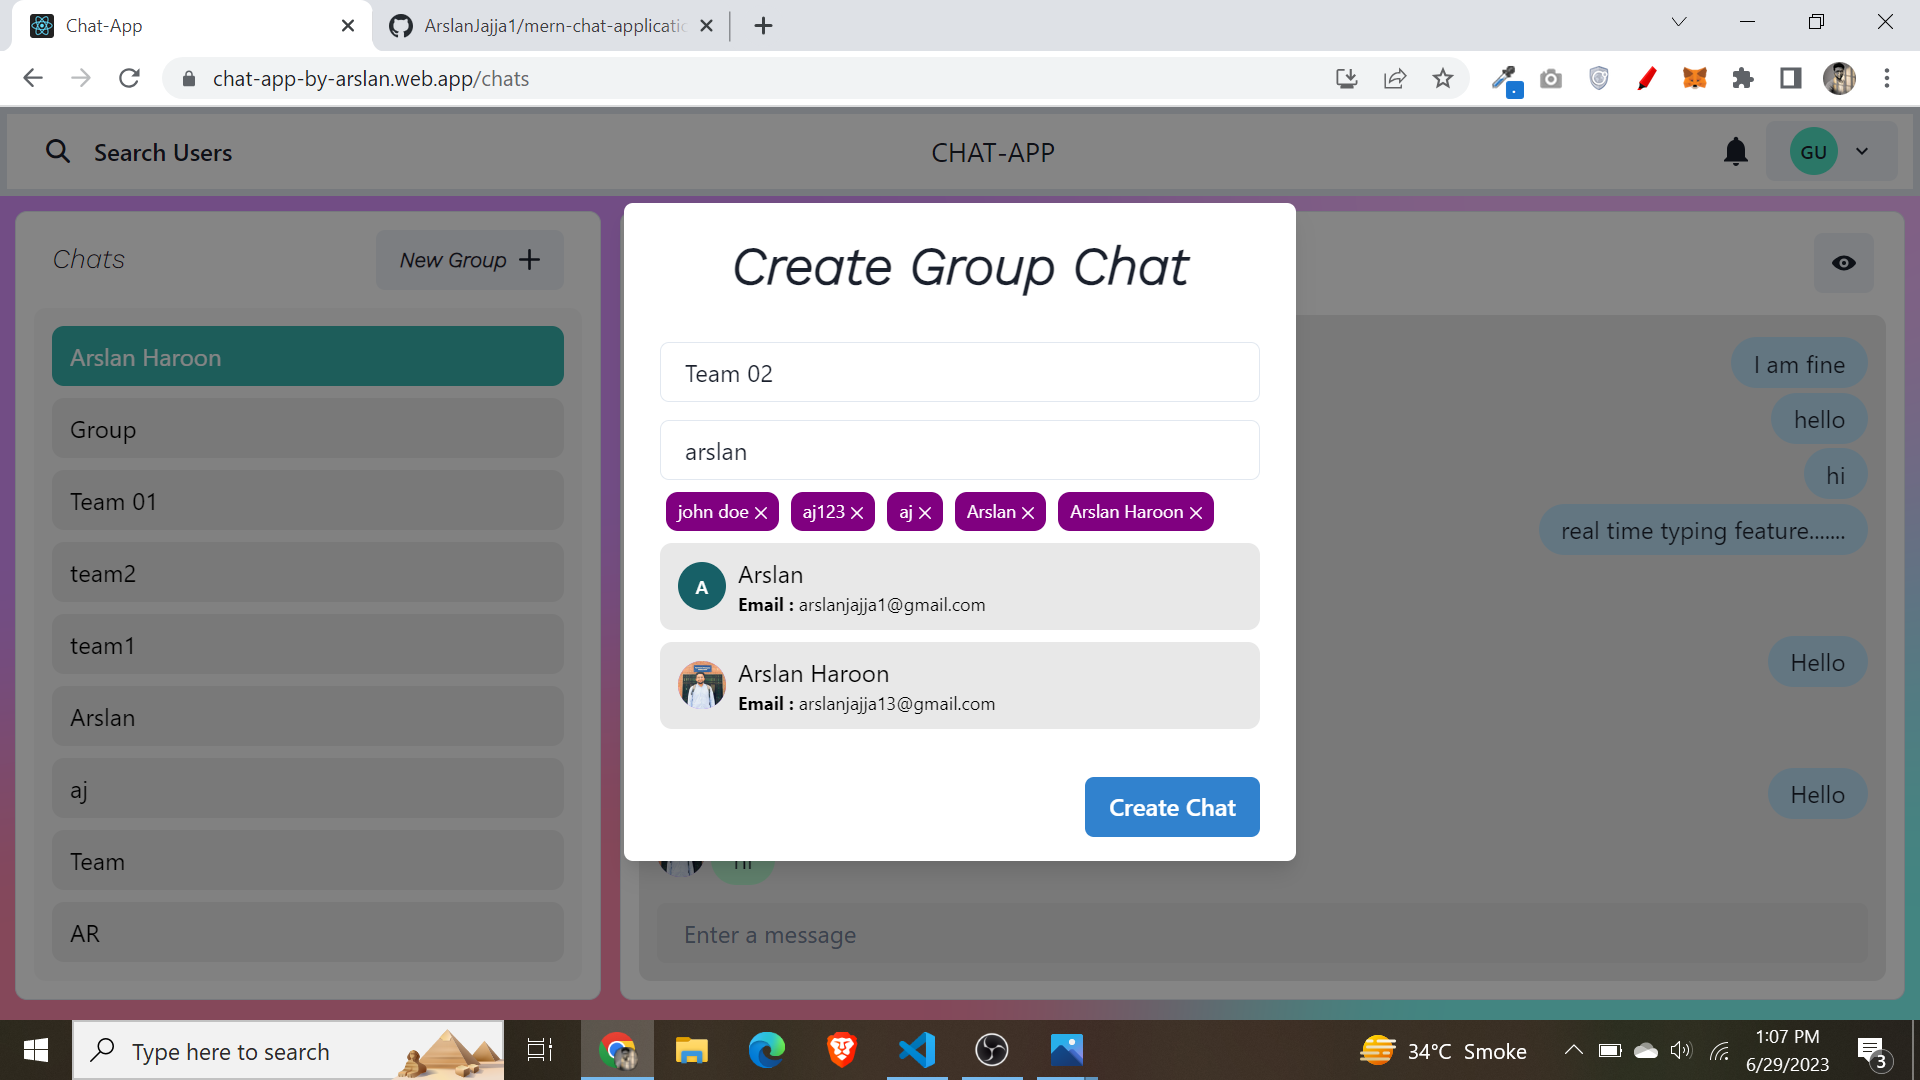
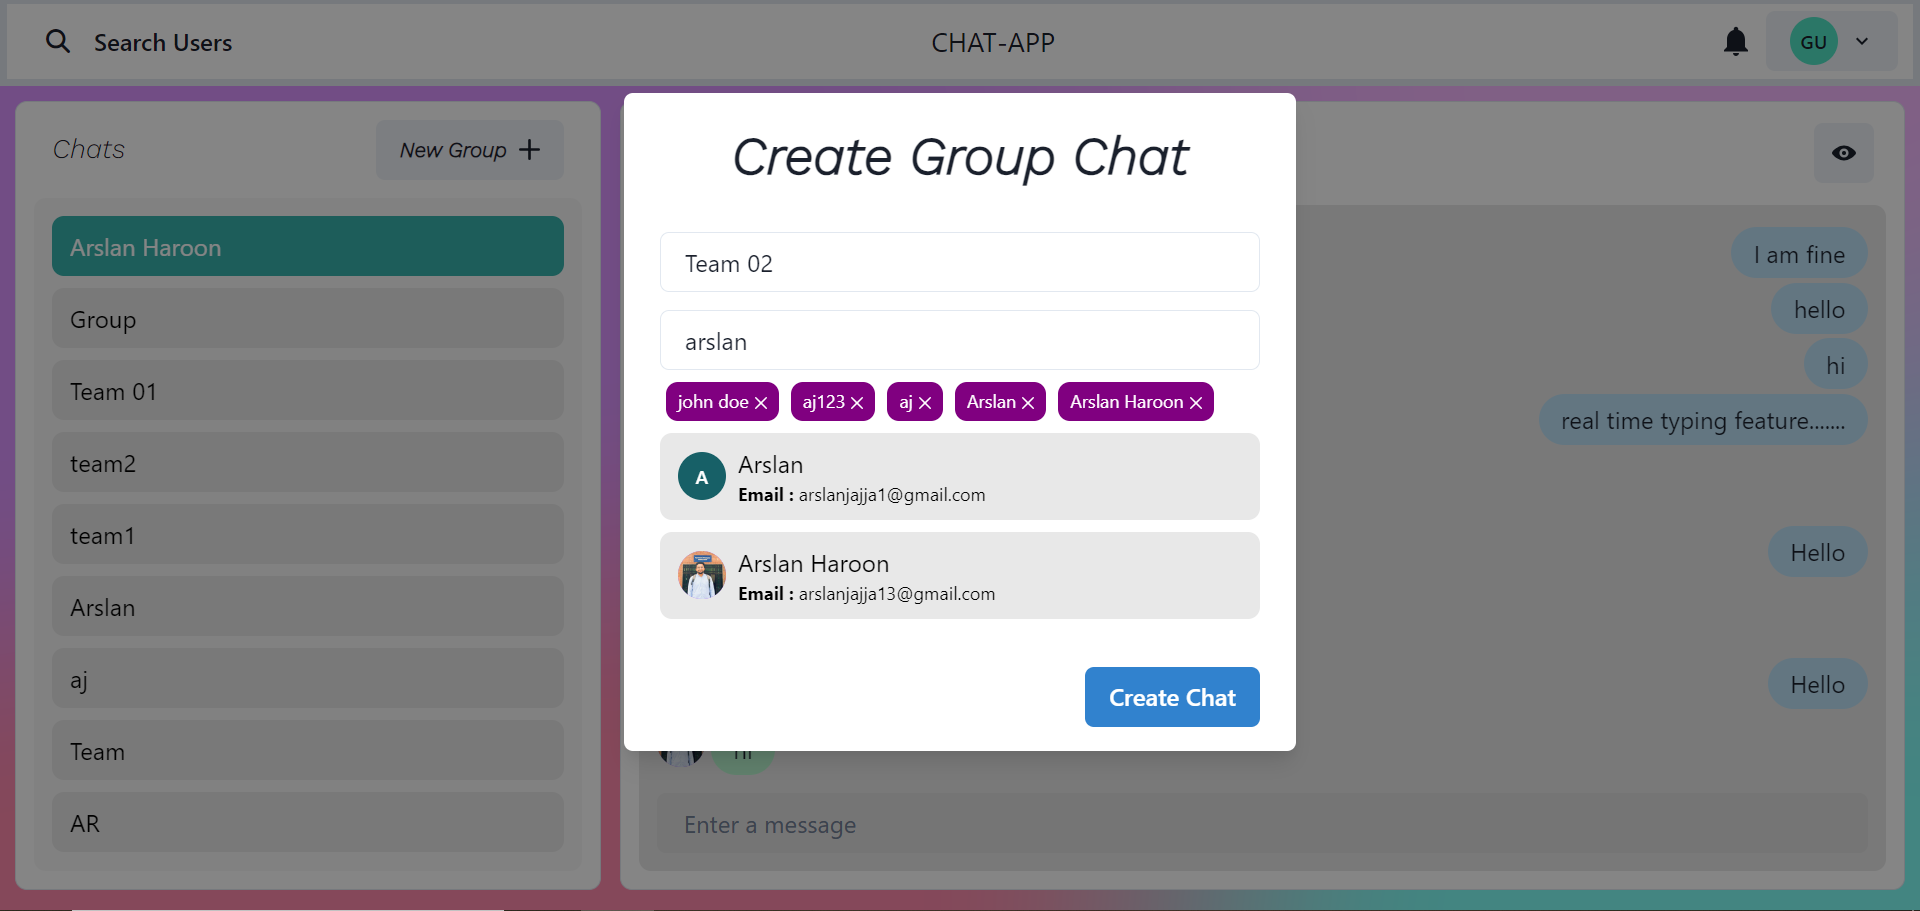
create group modal image

diff --git a/Readme.md b/Readme.md
@@ -19,3 +19,8 @@
 
 ![Single Chat Page](frontend/public/projectImages/singlechatpage.png)
 
+### Create Group Modal
+
+![Create Group](frontend/public/projectImages/creategroup.png)
+
+
